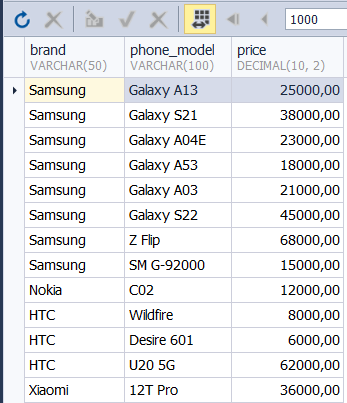
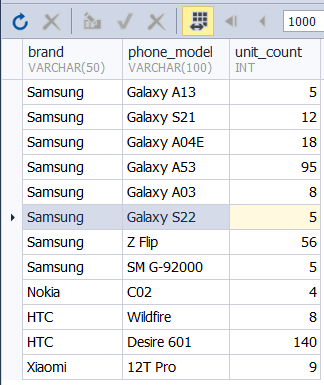
task 2 edited

diff --git a/README.md b/README.md
@@ -57,8 +57,10 @@ INSERT INTO phone
 Выведите название, производителя и цену для товаров, количество которых превышает 2 (SQL - файл, скриншот, либо сам код)
 
 ```SQL
+USE sql_gb_01;
+
 SELECT
-  brand, phone_model, price
+  brand, phone_model, unit_count
 FROM phone 
 WHERE unit_count > 2
 ```
